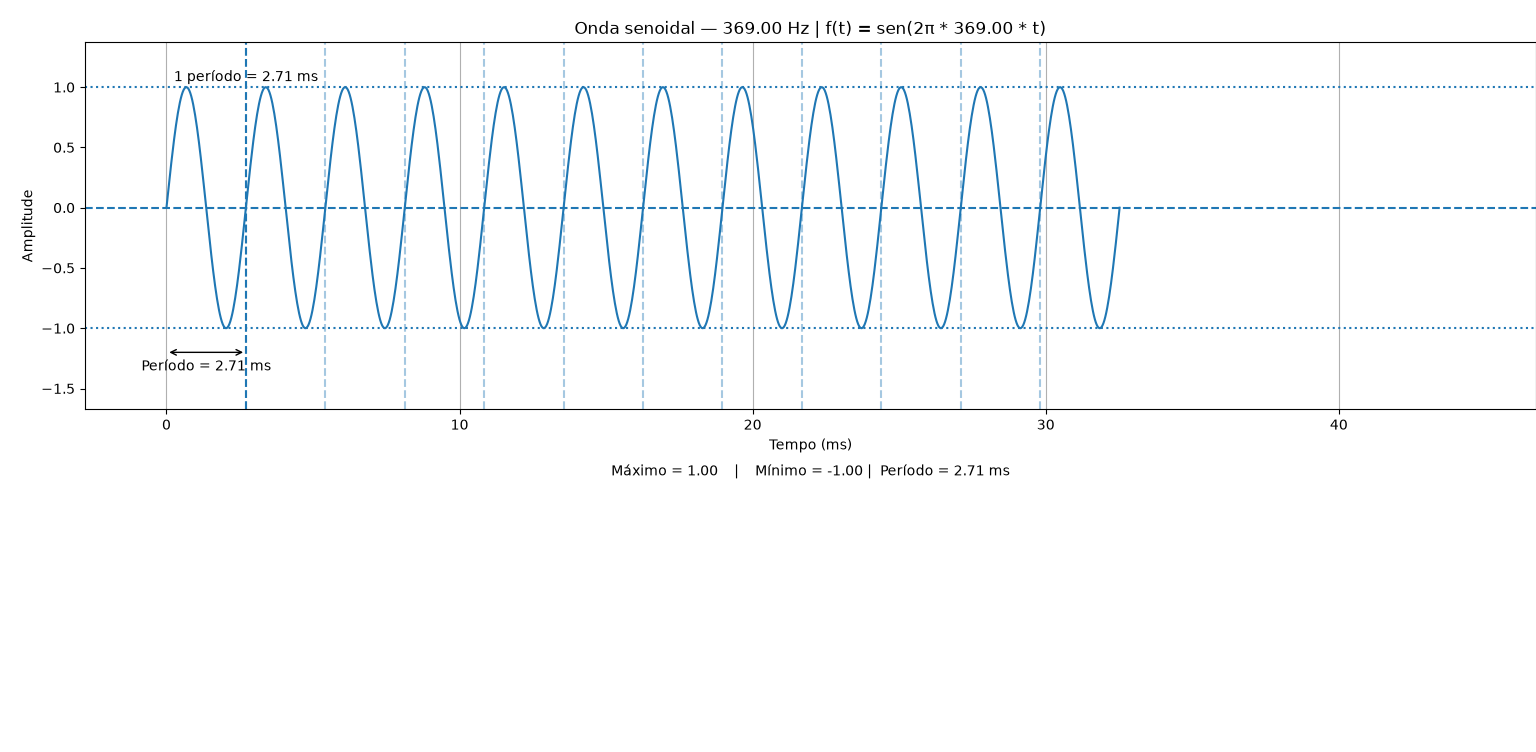
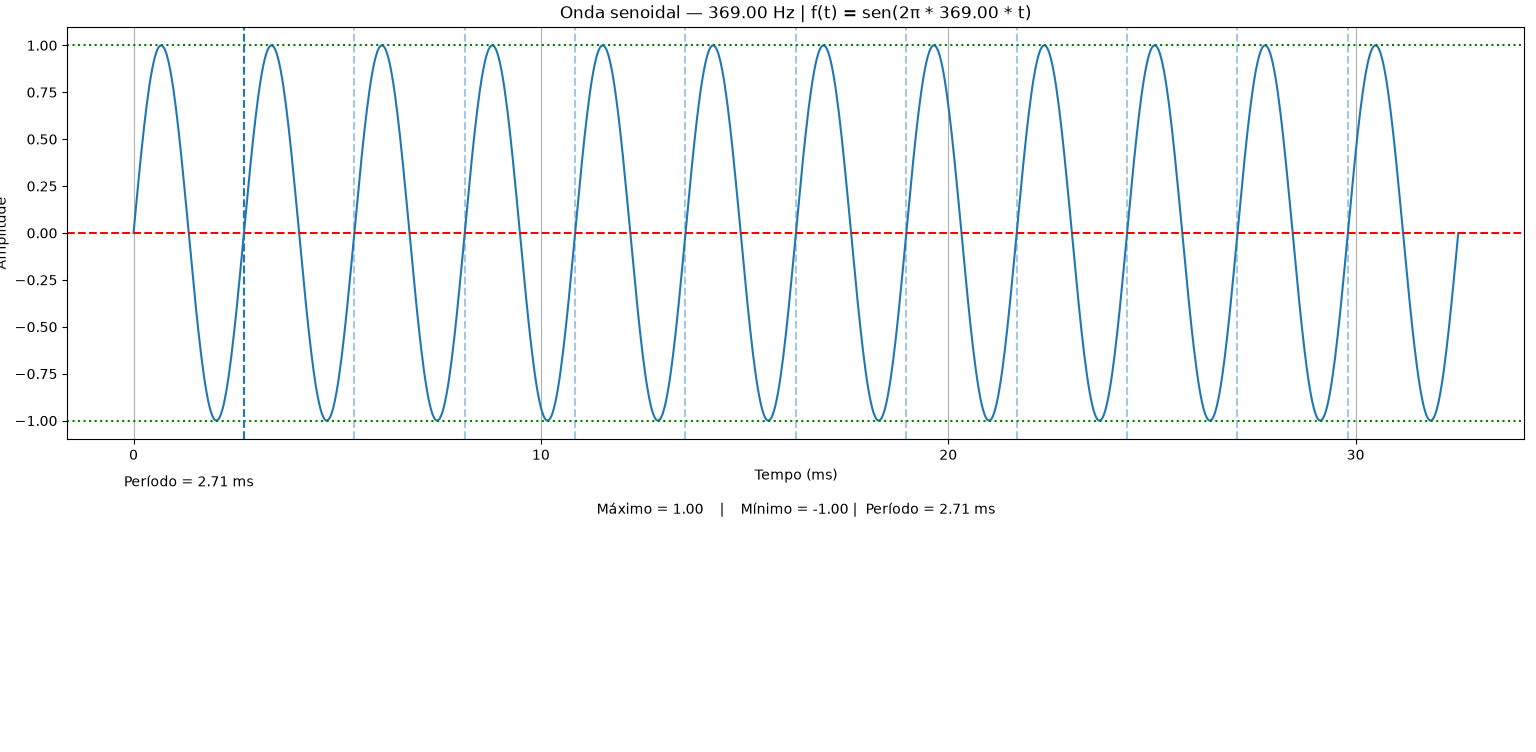
mudacas de cores e etc pro grafico

diff --git a/gerador de imagens senoidal de sons.py b/gerador de imagens senoidal de sons.py
@@ -25,18 +25,18 @@ plt.figure(figsize=(20, 10))
 plt.plot(tempo_ms, onda)
 
 # Linha centralw
-plt.axhline(0, linestyle="--")
+plt.axhline(0, linestyle="--", color="red")
 
 # Marcar máximo e mínimo (no caso, +1 e -1))
-plt.axhline(amplitude, linestyle=":")
-plt.axhline(-amplitude, linestyle=":")
+plt.axhline(amplitude, linestyle=":", color="green")
+plt.axhline(-amplitude, linestyle=":", color="green")
 
 # Marcar um período
 plt.axvline(periodo * 1000, linestyle="--")
 
-# Textos
-plt.text(periodo * 1000, 1.05, f"1 período = {periodo * 1000:.2f} ms",
-         ha="center")
+# desativado porque eu nao achei bonito mas fiquei com dó de excluir
+#plt.text(periodo * 1000, 1.05, f"1 período = {periodo * 1000:.2f} ms",
+        # ha="center")
 
 # Linhas dos períodos
 for i in range(1, 12):
